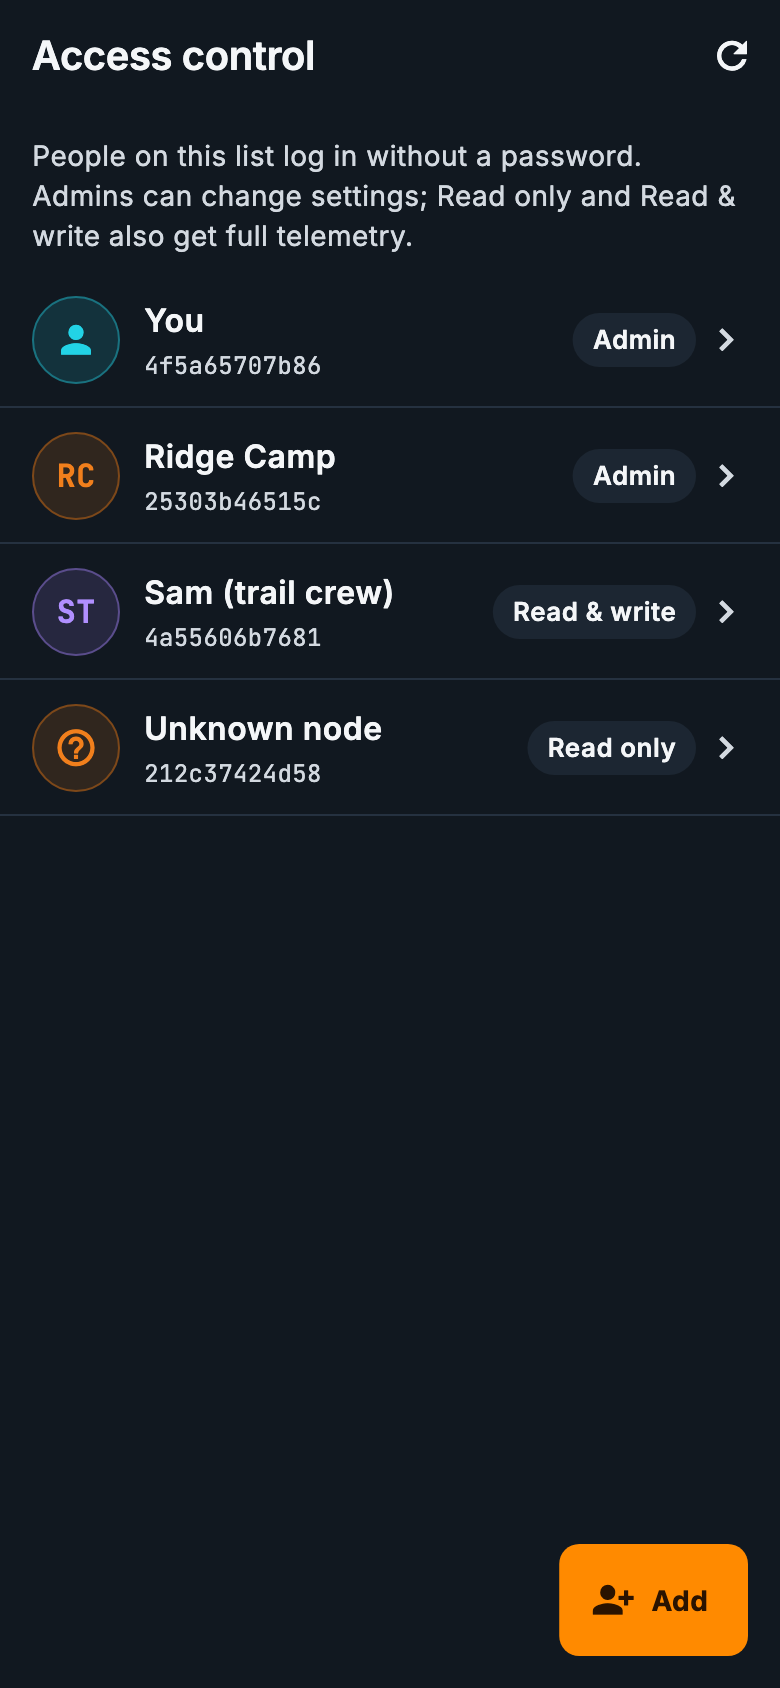
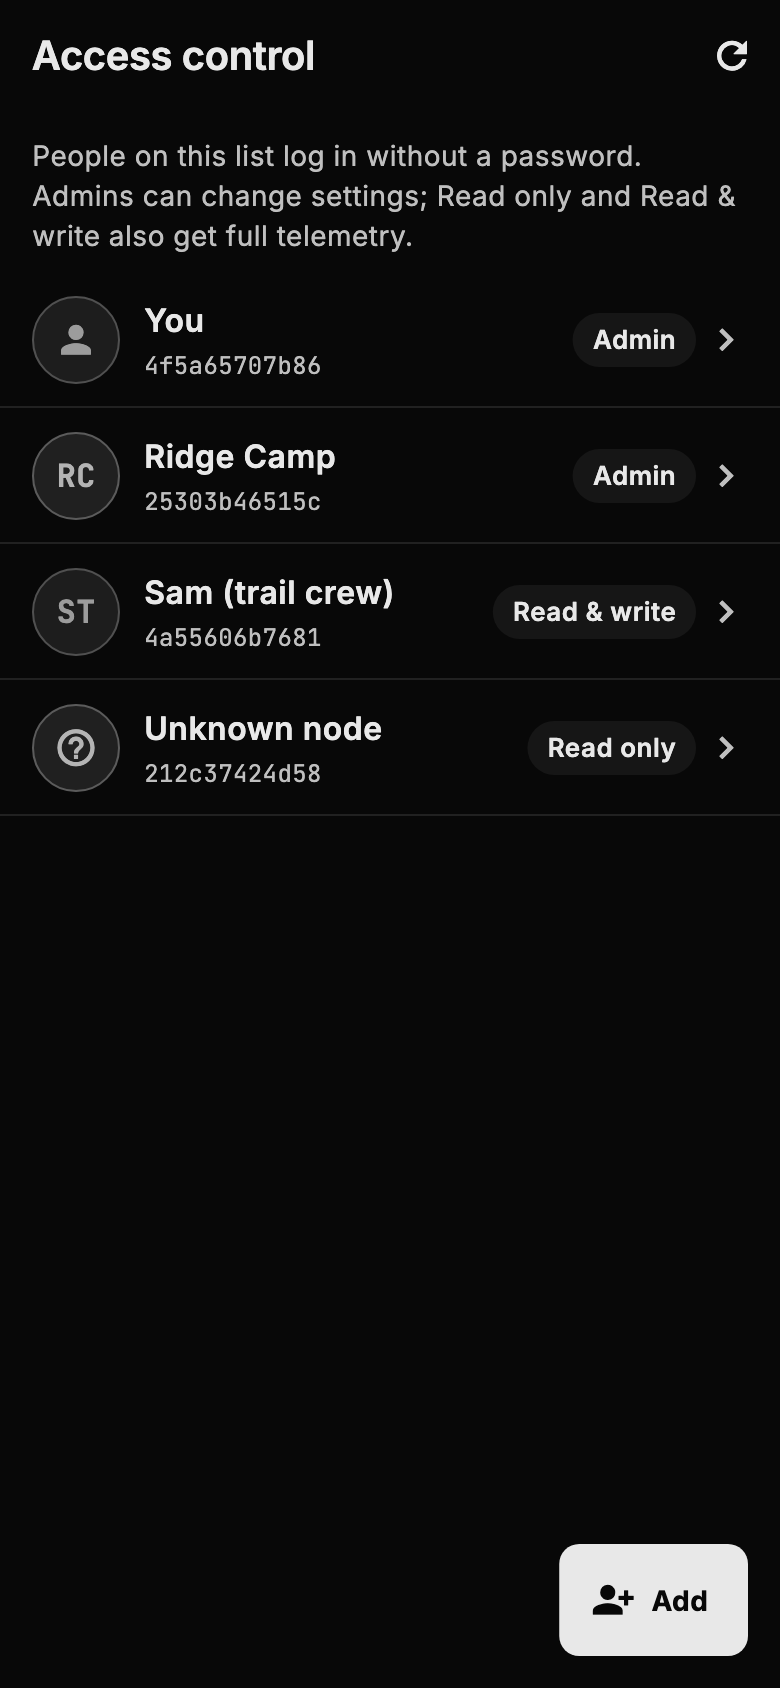
Refresh the README for BLACKOUT with new screenshots
New BLACKOUT banner header and 22 screenshots rendered headlessly from the
preview harness in the BLACKOUT default (plus the four other themes).
Release callout moved to rc.16, SARNEG and wardrive text matches what
shipped, and the old-theme and Night Ops phone captures are removed.

The preview harness gains SARNEG, Map + coverage and Wardrive screens,
generic placeholder repeater names, ages relative to now, and no emoji
that renders as a box without an emoji font.

diff --git a/test/preview/screens_preview_test.dart b/test/preview/screens_preview_test.dart
@@ -79,10 +79,23 @@ import 'package:meshcore_open/services/channel_directory_service.dart';
 import 'package:flutter_blue_plus/flutter_blue_plus.dart';
 import 'package:meshcore_open/screens/scanner_screen.dart';
 import 'package:shared_preferences/shared_preferences.dart';
+import 'package:meshcore_open/screens/sarneg/sarneg_ui.dart';
+import 'package:meshcore_open/screens/bastion_map_hub_screen.dart';
+import 'package:meshcore_open/screens/wardrive_screen.dart';
+import 'package:meshcore_open/services/team_tracking_service.dart';
+import 'package:meshcore_open/services/waypoint_store.dart';
+import 'package:meshcore_open/services/wardrive_service.dart';
 
-// Anchored to today so time-filtered screens (path graph) have data in range.
+// Anchored to now so time-filtered screens (path graph) have data in range
+// and ages read as minutes, not hours.
 final _today = DateTime.now();
-final _now = DateTime(_today.year, _today.month, _today.day, 9, 30);
+final _now = DateTime(
+  _today.year,
+  _today.month,
+  _today.day,
+  _today.hour,
+  _today.minute,
+);
 
 Uint8List _key(int seed) =>
     Uint8List.fromList(List.generate(32, (i) => (seed * 37 + i * 11) & 0xFF));
@@ -107,8 +120,8 @@ Contact _contact(
 final _contacts = [
   _contact(1, 'Ridge Camp', advTypeChat, ago: 2),
   _contact(2, 'Sam (trail crew)', advTypeChat, hops: 2, ago: 14),
-  _contact(3, 'Hollyburn RPT', advTypeRepeater, hops: 0, ago: 1),
-  _contact(4, 'Cypress Bowl RPT', advTypeRepeater, hops: 1, ago: 40),
+  _contact(3, 'Summit RPT', advTypeRepeater, hops: 0, ago: 1),
+  _contact(4, 'Valley RPT', advTypeRepeater, hops: 1, ago: 40),
   _contact(5, 'Basecamp Room', advTypeRoom, hops: 2, ago: 90),
   _contact(6, 'Weather Stn 3', advTypeSensor, hops: 3, ago: 300),
 ];
@@ -130,7 +143,7 @@ List<ChannelMessage> _channelMessages(int index) => [
   ),
   ChannelMessage(
     senderName: 'Me',
-    text: 'Copy, 20 min out. Repeater at Hollyburn is solid.',
+    text: 'Copy, 20 min out. Repeater on the summit is solid.',
     timestamp: _now.subtract(const Duration(minutes: 18)),
     isOutgoing: true,
     status: ChannelMessageStatus.sent,
@@ -139,7 +152,7 @@ List<ChannelMessage> _channelMessages(int index) => [
   ),
   ChannelMessage(
     senderName: 'Sam (trail crew)',
-    text: 'Gate is open, road is icy past km 4 👍',
+    text: 'Gate is open, road is icy past km 4.',
     timestamp: _now.subtract(const Duration(minutes: 5)),
     isOutgoing: false,
     channelIndex: index,
@@ -394,6 +407,21 @@ Widget _app(Widget home, ThemeMode mode) {
       ChangeNotifierProvider<MeshCoreConnector>.value(value: connector),
       ChangeNotifierProvider(create: (_) => FieldOpsService(connector)..load()),
       ChangeNotifierProvider(
+        create: (context) {
+          final fieldOps = context.read<FieldOpsService>();
+          return TeamTrackingService(
+            connector: connector,
+            trip: fieldOps,
+            tripActive: () => fieldOps.trip.active,
+            prefs: PrefsManager.instance,
+          );
+        },
+      ),
+      ChangeNotifierProvider(
+        create: (_) => WaypointStore(PrefsManager.instance),
+      ),
+      ChangeNotifierProvider(create: (_) => WardriveService(connector)),
+      ChangeNotifierProvider(
         create: (_) => SosRelayService.forConnector(connector),
       ),
       ChangeNotifierProvider(
@@ -453,6 +481,12 @@ void main() {
   final out = Platform.environment['PREVIEW_OUT'];
   final screens = <String, Widget Function()>{
     'home': () => const BastionHomeScreen(),
+    'sarneg': () {
+      SarnegKeys.instance = SarnegKeys(storage: MemorySarnegStorage());
+      return const SarnegScreen();
+    },
+    'map_hub': () => const BastionMapHubScreen(),
+    'wardrive': () => const WardriveScreen(),
     'tools': () {
       // Hide the one-time "Some tools moved" note, as a returning user sees it.
       unawaited(
@@ -676,8 +710,8 @@ List<NetworkSighting> _sampleSightings() {
       bestSnr: 7.25,
       bestRssi: -92,
       nodes: const [
-        HeardNode(key: 'a1b2c3d4', name: 'Hollyburn RPT', type: 2),
-        HeardNode(key: 'e5f60718', name: 'Cypress Bowl RPT', type: 2),
+        HeardNode(key: 'a1b2c3d4', name: 'Summit RPT', type: 2),
+        HeardNode(key: 'e5f60718', name: 'Valley RPT', type: 2),
         HeardNode(key: '99aa0011', name: 'Ridge Camp', type: 1),
       ],
     ),
@@ -695,7 +729,7 @@ List<NetworkSighting> _sampleSightings() {
       packets: 3,
       bestSnr: -4.5,
       bestRssi: -118,
-      nodes: const [HeardNode(key: '0badf00d', name: 'Seymour RPT', type: 2)],
+      nodes: const [HeardNode(key: '0badf00d', name: 'Lakeside RPT', type: 2)],
     ),
   ];
 }

diff --git a/README.md b/README.md
@@ -1,5 +1,5 @@
 <p align="center">
-  <img src="branding/blackout/notoryx-core-tile-1024.png" width="120" alt="NOTORYX app icon">
+  <img src="branding/blackout/notoryx-core-banner.png" width="100%" alt="NOTORYX Core: Engineered for independence.">
 </p>
 
 # NOTORYX Core
@@ -13,12 +13,13 @@ Part of the **NOTORYX** off-grid communications family. **No Towers. No Limits.*
 NOTORYX Core turns your phone or computer and a [MeshCore](https://meshcore.io/) radio into a field communicator that works without cell service, Wi-Fi or the internet. Messages hop from radio to radio across the mesh.
 
 <p align="center">
-  <img src="docs/screenshots/home.png" width="230" alt="Home: radio readouts, check-in, SOS and field tools on frosted glass">
-  <img src="docs/screenshots/chats.png" width="230" alt="Chats: channels and direct conversations">
-  <img src="docs/screenshots/nodes.png" width="230" alt="Nodes: repeaters, people, rooms and sensors heard on the mesh">
+  <img src="docs/screenshots/home.png" width="200" alt="Home: radio readouts, check-in, hold for SOS and field tools">
+  <img src="docs/screenshots/chats.png" width="200" alt="Chats: channels and direct conversations">
+  <img src="docs/screenshots/nodes.png" width="200" alt="Nodes: repeaters, people, rooms and sensors with hop counts">
+  <img src="docs/screenshots/traffic_map.png" width="200" alt="Live traffic map: a packet's route drawn hop by hop">
 </p>
 
-> **Latest stable: [10.0.0](https://github.com/TheLogsAreScreaming/notoryx-core-releases/releases/tag/v10.0.0)** (14 November 2026). **Latest pre-release: [10.1.0-rc.10](https://github.com/TheLogsAreScreaming/notoryx-core-releases/releases/tag/v10.1.0-rc.10)** (19 November 2026), with everything below except SARNEG code words (next build), including the live traffic map, stale-node badge, range rings and on-device spam filter.
+> **Latest stable: [10.0.0](https://github.com/TheLogsAreScreaming/notoryx-core-releases/releases/tag/v10.0.0)** (14 November 2026). **Latest pre-release: [10.1.0-rc.16](https://github.com/TheLogsAreScreaming/notoryx-core-releases/releases/tag/v10.1.0-rc.16)** (21 November 2026), with SARNEG code words, the rebuilt wardrive, up to 5,000 remembered nodes, the live traffic map, stale-node badges, range rings and the on-device spam filter. The new **BLACKOUT** look and app icon shown here are merged and arrive in the next build.
 >
 > NOTORYX Core is checked by automated tests and a mesh simulator but not yet on a wide range of phones and radios: see [Known limitations](docs/KNOWN_LIMITATIONS.md). It is not a replacement for an emergency service or a satellite messenger. Please [report problems in notoryx-core-releases](https://github.com/TheLogsAreScreaming/notoryx-core-releases/issues/new/choose) (issues are off in this source repository).
 
@@ -30,7 +31,7 @@ Get the latest build from **[NOTORYX Core releases](https://github.com/TheLogsAr
 |---|---|---|
 | Android (ARM64 phones) | `NOTORYX-Core-…-arm64-v8a.apk` | Signed with the existing release key |
 | Android, Lite | `NOTORYX-Core-Lite-…-arm64-v8a.apk` | Smaller, with no closed-source parts: no on-device translation, picture messages, camera QR scanner or phone GPS. Signed with the same key |
-| macOS (Intel and Apple silicon, macOS 14+) | `NOTORYX-Core-…-macOS-universal.zip` | Not notarized by Apple (see below) |
+| macOS (Intel and Apple silicon, macOS 14+) | `NOTORYX-Core-…-macOS-universal.zip` | Not notarized by Apple (see below). The newest Mac build is 10.1.0-rc.10: rc.11 to rc.16 are Android-only while a build dependency's download server is fixed |
 
 iOS, Windows, Linux and web builds compile in CI but aren't released yet.
 
@@ -101,10 +102,11 @@ The tabs at the bottom are **Home**, **Chats**, **Nodes**, **Map** and **More**.
 - **Airtime estimate** under the message box (for example `≈0.6 s on air`), worked out from your radio's settings.
 - **Per-channel notifications:** all messages, only when you're mentioned, or muted. A message that arrives twice alerts only once.
 - **Quick messages:** ready-made replies like "On my way" or "At camp" from the message box menu. Edit the list to make it yours.
-- **SARNEG code words** (Tools → SARNEG code word): send grid references, frequencies and times as letters instead of digits. Your team agrees on a 10-letter word with no repeated letter (with BLACKHORSE, `[SARNEG] LRs KSAC` reads as 17S 4823). A SARNEG button in the message box codes the numbers before you press Send, and a received `[SARNEG]` message gets a tap-to-decode line. Share the word by QR code or text, and set a different word for given days. The same format works in every NOTORYX app. It keeps numbers away from a casual listener; it is **not encryption**. Merged after the latest release, so it arrives in the next test build; not yet tried on a phone.
+- **SARNEG code words** (Tools → SARNEG code word): send grid references, frequencies and times as letters instead of digits. Your team agrees on a 10-letter word with no repeated letter (with BLACKHORSE, `[SARNEG] LRs KSAC` reads as 17S 4823). A SARNEG button in the message box codes the numbers before you press Send, and a received `[SARNEG]` message gets a tap-to-decode line. Share the word by QR code or text, and set a different word for given days. The same format works in every NOTORYX app. It keeps numbers away from a casual listener; it is **not encryption**. The SARNEG screen blocks screenshots, numbers you encode or decode by hand there clear after a minute without typing, and anything copied from it is wiped from the clipboard after a minute.
 - **Direct messages:** stop retrying a message that's still being sent, and a note in a new chat that the other person has to add you as a contact before they can read and answer.
 - **Share your position or a contact** from the message box. Received contacts can be added in one tap, and **Add contact from clipboard** accepts links, adverts (even wrapped across lines) and bare public keys.
 - **Discovered contacts:** add one with a tap, or long-press to pick several (or **Add all shown**) and add them together, up to the room left on your radio.
+- **Remembers up to 5,000 heard nodes**, including contacts your radio drops when its list is full, and **Import nodes** reads a JSON or CSV list, contact links, adverts or public keys from a file or the clipboard. **Nodes** on Home counts everything the app knows, with how full your radio's contact list is.
 - **Region tags:** a channel post scoped to a region shows it next to the time, for example **📍 ct**.
 - **Link previews** (off by default, since fetching one tells the site your IP address).
 - **Area-limited channel messages** that stay within a radius of you. These need radios running flood-corridor firmware.
@@ -119,7 +121,7 @@ The tabs at the bottom are **Home**, **Chats**, **Nodes**, **Map** and **More**.
 - **Compass to any node:** **Point me to it** on a node opens a compass with an arrow, distance and "Turn left 35°". It opens from the map, the Nodes list and the path tools.
 - **Coordinates** as decimal degrees, DMS, MGRS, UTM or Maidenhead locator.
 - **Map telemetry:** battery, temperature, humidity or pressure badges on the map. Readings dim after an hour and hide after a day, and the map remembers your choice.
-- **Wardrive:** ping as you drive or hike and map which repeaters heard you, and how well, both ways. Pings use your phone's GPS and the map follows you. Drives are saved.
+- **Wardrive:** ping as you drive or hike and map which repeaters heard you, and how well, both ways. Four modes: **Discovery** (zero-hop, the default), **Trace** (one repeater, measured both ways), **Channel** (a short post to #wardriving; it floods the mesh, so it's never the default and no position goes on air) and **Hybrid**. Packets your radio hears anyway are mapped too, at no airtime cost. Pings wait until you've moved and skip squares heard recently. The map is coloured in 100 m or 300 m squares (both ways, repeater only, passive, no answer, skipped), with per-repeater stats, a noise-floor graph, export to GPX, KML, CSV or GeoJSON, and an option to keep running with the screen off. Drives are saved.
 - **Network scan** (More → Networks): find MeshCore networks nearby. A radio only hears networks on its exact settings, so a scan switches yours to each network in turn and switches back. **Quick** (the default) sends one zero-hop discover ping on each and listens about 8 s, so a scan takes well under a minute; **Thorough** only listens, 30–90 s each, and also finds networks without a repeater in range. The first scan checks every preset in your band; after that, the networks you've found and saved plus your country's preset. Each network heard is logged with the time, place, signal and its nodes, so you can map it, export CSV or GPX, save it, or join it with one tap. You're off your own mesh while it scans, so it won't run during an SOS or a trip, and the radio's auto-add is paused so other networks' nodes don't fill your contacts.
 - **Path graph:** every path you've heard, drawn as flows from far repeaters to you, or as a **network** diagram with you in the middle. Short (1-byte) hops are matched to a specific repeater using longer paths, and the app remembers which repeater wins a shared short ID.
 - **Route Intelligence:** learned routes and the best repeaters your radio hears directly. **Route view** shows each link of a contact's route with the signal both ways, and lets you pick a different route.
@@ -168,7 +170,7 @@ The tabs at the bottom are **Home**, **Chats**, **Nodes**, **Map** and **More**.
 - **LetsMesh-style sign-in** with a token signed by your radio, so its private key never leaves it. LetsMesh (US and EU) and MeshRank presets are included; they're community services, not part of NOTORYX.
 
 ### Look and feel
-- **Frosted ember:** the main screens sit on a warm glow, with see-through glass panels and a floating tab bar. With reduce motion turned on, the blur is off.
+- **BLACKOUT look:** matte black, charcoal and steel with frost-white text and the steel eagle-N app icon. The main screens sit on a soft glow with see-through glass panels and a floating tab bar. With reduce motion turned on, the blur is off.
 - **Your own background:** the theme's glow, a flat color, a gradient, a soft color blend or your own photo, with dim and blur controls so text stays readable.
 - **Node looks:** give any node a color or a photo. It shows in the Nodes list and on the map.
 - **Dark-mode theme:** an optional second theme for when your phone is in dark mode.
@@ -181,38 +183,39 @@ The tabs at the bottom are **Home**, **Chats**, **Nodes**, **Map** and **More**.
 - Available in 18 languages.
 
 <p align="center">
-  <img src="docs/screenshots/more.png" width="200" alt="More: every tool and setting, searchable">
-  <img src="docs/screenshots/channel_directory.png" width="200" alt="Channel directory: local, emergency and active channels">
-  <img src="docs/screenshots/access_control.png" width="200" alt="Repeater access control">
-  <img src="docs/screenshots/networks.png" width="200" alt="Networks: scan for nearby networks and keep a log">
+  <img src="docs/screenshots/trip.png" width="200" alt="Trip and field operations: plan, start a trip and send check-ins">
+  <img src="docs/screenshots/sarneg.png" width="200" alt="SARNEG code word setup">
+  <img src="docs/screenshots/wardrive.png" width="200" alt="Wardrive: modes, coverage squares and legend">
+  <img src="docs/screenshots/map_coverage.png" width="200" alt="Map + coverage: every coverage and map tool in one place">
 </p>
 
 <p align="center">
-  <img src="docs/screenshots/home_tactical.png" width="160" alt="Tactical theme">
-  <img src="docs/screenshots/home_okabe_ito.png" width="160" alt="Okabe-Ito color-blind safe theme">
-  <img src="docs/screenshots/home_night_ops.png" width="160" alt="Night Ops low-light theme">
-  <img src="docs/screenshots/home_seasonal.png" width="160" alt="Seasonal theme in autumn">
+  <img src="docs/screenshots/channel_chat.png" width="200" alt="A channel chat with repeats and delivery ticks">
+  <img src="docs/screenshots/dm_chat.png" width="200" alt="A direct chat with delivery status">
+  <img src="docs/screenshots/more.png" width="200" alt="More: every tool and setting, searchable">
+  <img src="docs/screenshots/settings.png" width="200" alt="Settings: radio card, battery saver and refresh rate">
 </p>
 
 <p align="center">
   <img src="docs/screenshots/routes.png" width="200" alt="Route Intelligence">
   <img src="docs/screenshots/path_graph.png" width="200" alt="Path graph showing how messages reach you">
-  <img src="docs/screenshots/settings.png" width="200" alt="Settings">
-</p>
-
-<p align="center">
-  <img src="docs/screenshots/dm_chat.png" width="200" alt="A direct chat with delivery status">
+  <img src="docs/screenshots/networks.png" width="200" alt="Networks: scan for nearby networks and keep a log">
   <img src="docs/screenshots/battery_watch.png" width="200" alt="Battery watch: repeater battery history and trend">
-  <img src="docs/screenshots/home_light.png" width="200" alt="Home in light mode">
 </p>
 
 <p align="center">
-  <img src="docs/screenshots/background.png" width="200" alt="Background: theme glow, color, gradient, color blend or your own photo behind the glass">
-  <img src="docs/screenshots/theme_settings.png" width="200" alt="Theme settings with a different theme in dark mode">
-  <img src="docs/screenshots/checklist_run.png" width="200" alt="Before a trip checklist">
-  <img src="docs/screenshots/firmware_guide.png" width="200" alt="Guided firmware update">
+  <img src="docs/screenshots/channel_directory.png" width="200" alt="Channel directory: local, emergency and active channels">
+  <img src="docs/screenshots/access_control.png" width="200" alt="Repeater access control">
 </p>
-<p align="center"><em>Captured on a phone running 10.1.0-rc.5 with the Night Ops theme.</em></p>
+
+<p align="center">
+  <img src="docs/screenshots/home.png" width="150" alt="BLACKOUT theme (default)">
+  <img src="docs/screenshots/home_tactical.png" width="150" alt="Tactical theme">
+  <img src="docs/screenshots/home_okabe_ito.png" width="150" alt="Okabe-Ito color-blind safe theme">
+  <img src="docs/screenshots/home_night_ops.png" width="150" alt="Night Ops low-light theme">
+  <img src="docs/screenshots/home_seasonal.png" width="150" alt="Seasonal theme in autumn">
+</p>
+<p align="center"><em>BLACKOUT · Tactical · Okabe-Ito · Night Ops · Seasonal. Screenshots are rendered from the app with sample data (<code>test/preview/</code>), not captured on a phone.</em></p>
 
 ## Add your area's mesh settings
 
@@ -274,7 +277,7 @@ flutter test
 - `lib/services/`: field ops, coverage, routing, MQTT, notifications and other services
 - `lib/models/`, `lib/storage/`: data and persistence
 - `lib/theme/`: themes and colors
-- `test/`: unit and widget tests; `test/preview/` renders screenshots (`PREVIEW_OUT=dir flutter test test/preview`, with `PREVIEW_THEME=neon_anarchy`, `pink_overload`, `night_ops` and so on for other themes, and `PREVIEW_THEME=seasonal PREVIEW_SEASON=winter` for a season)
+- `test/`: unit and widget tests; `test/preview/` renders screenshots (`PREVIEW_OUT=dir flutter test test/preview`, with `PREVIEW_THEME=tactical`, `okabe_ito` or `night_ops` for other themes (BLACKOUT is the default), and `PREVIEW_THEME=seasonal PREVIEW_SEASON=winter` for a season)
 
 ## Contributing
 
